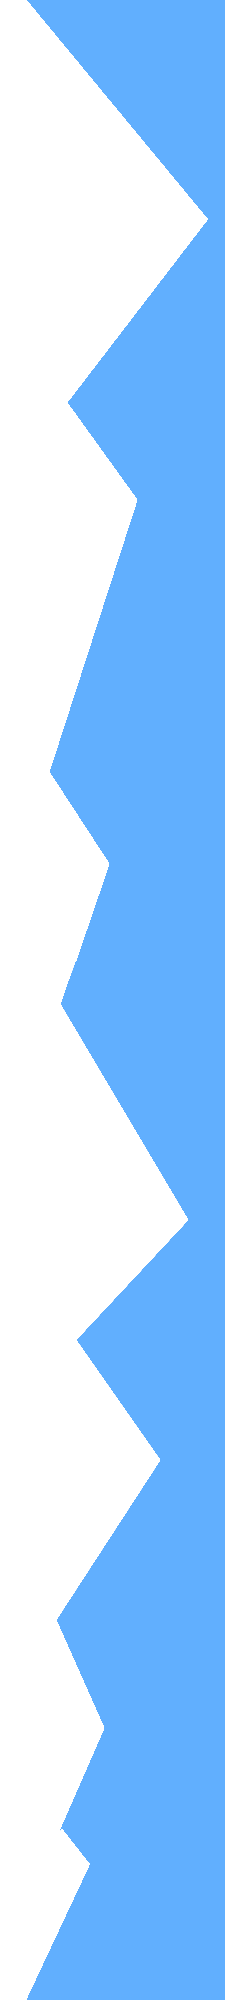
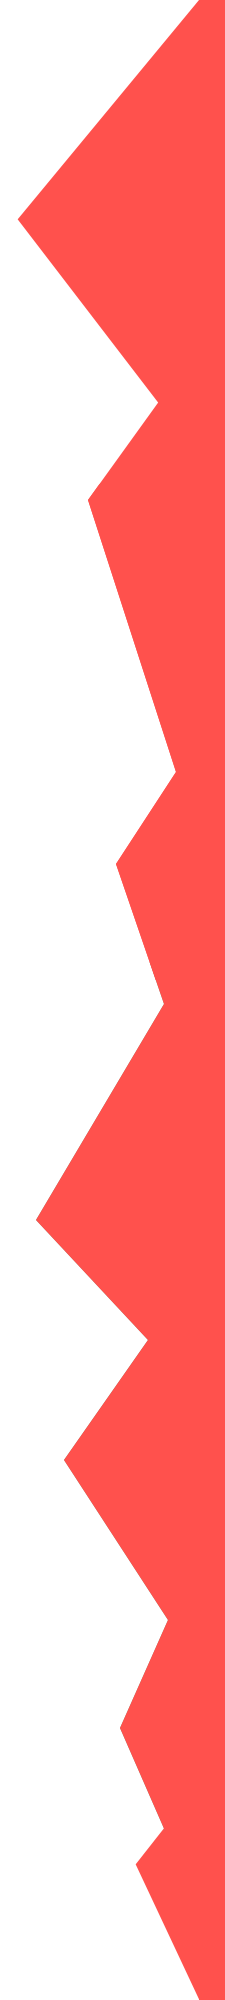
[FEATURE] Found the final color for the website, creating the menu for the singular page

diff --git a/wp-content/themes/latsuj/style.css b/wp-content/themes/latsuj/style.css
@@ -51,9 +51,14 @@ body {
 #menu {
 	position: fixed;
     z-index: 10;
-    padding: 20px 40px;
+    padding: 1rem 3rem;
     cursor: pointer;
+    transition: all 1.3s cubic-bezier(0.75,0,0.25,1);
 } 
+
+#menu.active {
+	transform: translate3d(12rem,0,0);
+}
 
 .box-shadow-menu:before {
 	content: "";
@@ -62,8 +67,8 @@ body {
     transform: translateX(-50%);
     width: 1.5em;
     height: 0.25em;
-    background: black;
-    box-shadow: 0 0.5rem 0 0 black, 0 1rem 0 0 black;
+    background: #fcd116;
+    box-shadow: 0 0.5rem 0 0 #fcd116, 0 1rem 0 0 #fcd116;
 }
  
 h1 {
@@ -96,17 +101,17 @@ h3 {
 }
 
 #theexcerpt p {
-	border-top: .125rem solid #61affe;
-    border-bottom: .125rem solid #61affe;
+	border-top: .125rem solid #fcd116;
+    border-bottom: .125rem solid #fcd116;
     padding: 30px 5%;
     margin: 0 20%;
     text-align: justify;
 }
 
 #theexcerpt::before {
-	background-color: #fff;
-    border: 2px solid #61affe;
-    border: .125rem solid #61affe;
+	background-color: #fcd116;
+    border: 2px solid #fcd116;
+    border: .125rem solid #fcd116;
     content: '';
     height: 10px;
     height: .625rem;
@@ -120,9 +125,9 @@ h3 {
 }
 
 #theexcerpt::after {
-	background-color: #fff;
-    border: 2px solid #61affe;
-    border: .125rem solid #61affe;
+	background-color: #fcd116;
+    border: 2px solid #fcd116;
+    border: .125rem solid #fcd116;
     content: '';
     height: 10px;
     height: .625rem;
@@ -191,9 +196,9 @@ article.post {
 }
 
 .design::after {
-	background-color: #fff;
-    border: 2px solid #61affe;
-    border: .125rem solid #61affe;
+	background-color: #fcd116;
+    border: 2px solid #fcd116;
+    border: .125rem solid #fcd116;
     content: '';
     height: 10px;
     height: .625rem;
@@ -205,7 +210,7 @@ article.post {
 }
 
 #design_top {
-    background: #61affe;
+    background: #fcd116;
     height: 50px;
     top: 0;
     left: 50%;
@@ -218,7 +223,7 @@ article.post {
 }
 
 #design_bottom {
-    background: #61affe;
+    background: #fcd116;
     height: 50px;
     bottom: 0;
     left: 50%;
@@ -232,7 +237,7 @@ article.post {
 
 #thedate {
 	margin-left: 70%;
-    background: #61affe;
+    background: #fcd116;
     margin-right: 20%;
     text-align: center;
     padding: 0.5rem 0.5rem;
@@ -242,8 +247,8 @@ article.post {
 
 #thedate::before {
 	background-color: #fff;
-    border: 2px solid #61affe;
-    border: .125rem solid #61affe;
+    border: 2px solid #fcd116;
+    border: .125rem solid #fcd116;
     content: '';
     height: 10px;
     height: .625rem;
@@ -267,17 +272,106 @@ article.post:last-of-type {
 
 .design_side {
     position: absolute;
-	width: 100%;
+	width: 50%;
     height: 100%;
     background-image: url(./img/background_left_01.png);
     background-repeat-x: no-repeat;
     z-index: 1;
     pointer-events: none;
+    transition: all 1.3s cubic-bezier(0.75,0,0.25,1);
+}
+
+#design_side_left.right {
+    transform: translate3d(12rem,0,0);
+}
+
+#side_left {
+    position: fixed;
+    z-index: 1;
+	width: 13rem;
+    height: 100%;
+    background: #61affe;
+    transform: translate3d(-12rem,0,0);
+    transition: all 1.3s cubic-bezier(0.75,0,0.25,1);
+}
+
+#side_left.right {
+    transform: translate3d(0,0,0);
 }
 
 #design_side_right {
-    background-position-x: left;
-    transform: rotateY(180deg);
+    background-position-x: right;
+    background-image: url(./img/background_right_01.png);
+    right: 0;
 }
 
+#menu-list {
+	position: absolute;
+    width: 100%;
+    top: 4rem;
+}
 
+#menu-list > span {
+	position: absolute;
+    width: 100%;
+    font-family: "GothamSSm-Black", Arial, sans-serif;
+    text-transform: uppercase;
+    color: white;
+}
+
+#menu-list .home {
+    top: 1rem;
+    left: 1rem;
+}
+
+#menu-list > span::before {
+	width: 100%;
+    background: white;
+    position: absolute;
+    height: 0.25rem;
+    top: 0.5rem;
+    content: "";
+    left: -105%;
+}
+
+#menu-list .posts {
+    top: 3rem;
+    left: 2rem;
+}
+
+#menu-list .categories {
+    top: 5rem;
+    left: 3rem;
+    color: black;
+}
+
+#menu-list .category_01 {
+    top: 7rem;
+    left: 2rem;
+}
+
+#menu-list .category_02 {
+    top: 9rem;
+    left: 2rem;
+}
+
+#menu-list .postRelated {
+    top: 11rem;
+    left: 3rem;
+    color: black;
+}
+
+#menu-list .related_01 {
+    top: 13rem;
+    left: 2rem;
+}
+
+#menu-list .related_02 {
+    top: 15rem;
+    left: 2rem;
+}
+
+#menu-list .related_03 {
+    top: 17rem;
+    left: 2rem;
+}

diff --git a/wp-content/themes/latsuj/latsuj.js b/wp-content/themes/latsuj/latsuj.js
@@ -1,0 +1,23 @@
+document.addEventListener("DOMContentLoaded", function() {
+    let menu = document.getElementById("menu");
+    let designSideLeft = document.getElementById("design_side_left");
+    let sideLeft = document.getElementById("side_left");
+    menu.addEventListener("click", menuActionOnClick);
+
+    function menuActionOnClick() {
+        if(!menu.classList.contains('active')) return menuActive();
+        if(menu.classList.contains('active')) return menuDesactive();
+    }
+    
+    function menuActive() {
+        menu.classList.add("active");
+        designSideLeft.classList.add("right");
+        sideLeft.classList.add("right");
+    }
+    
+    function menuDesactive() {
+        menu.classList.remove("active");
+        designSideLeft.classList.remove("right");
+        sideLeft.classList.remove("right");
+    }
+})
